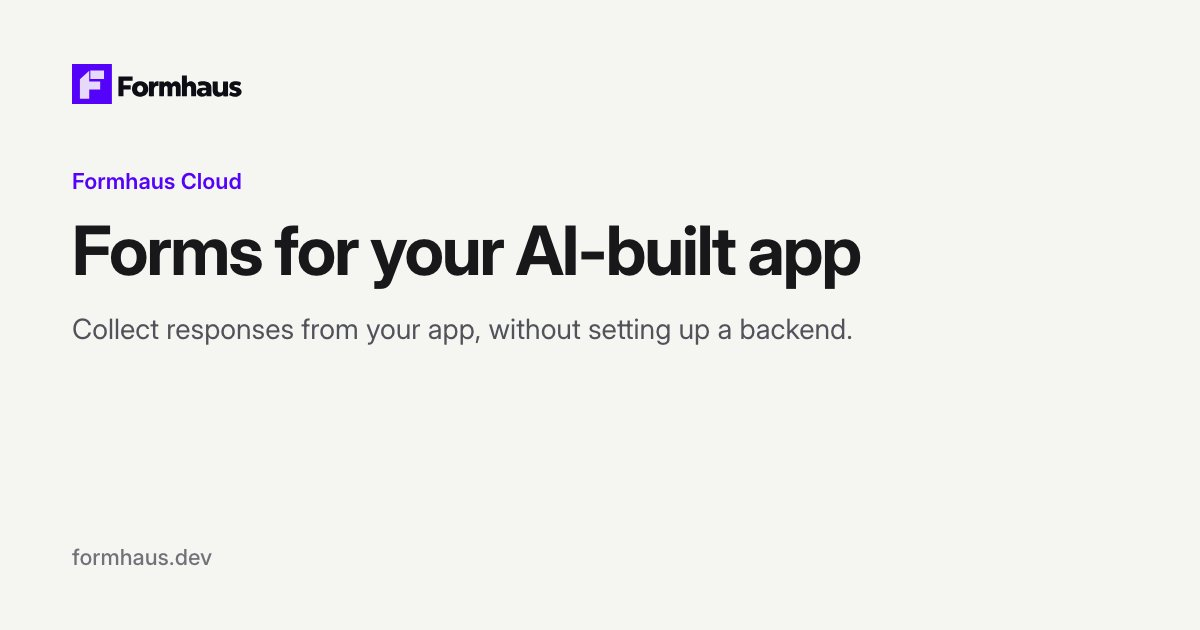
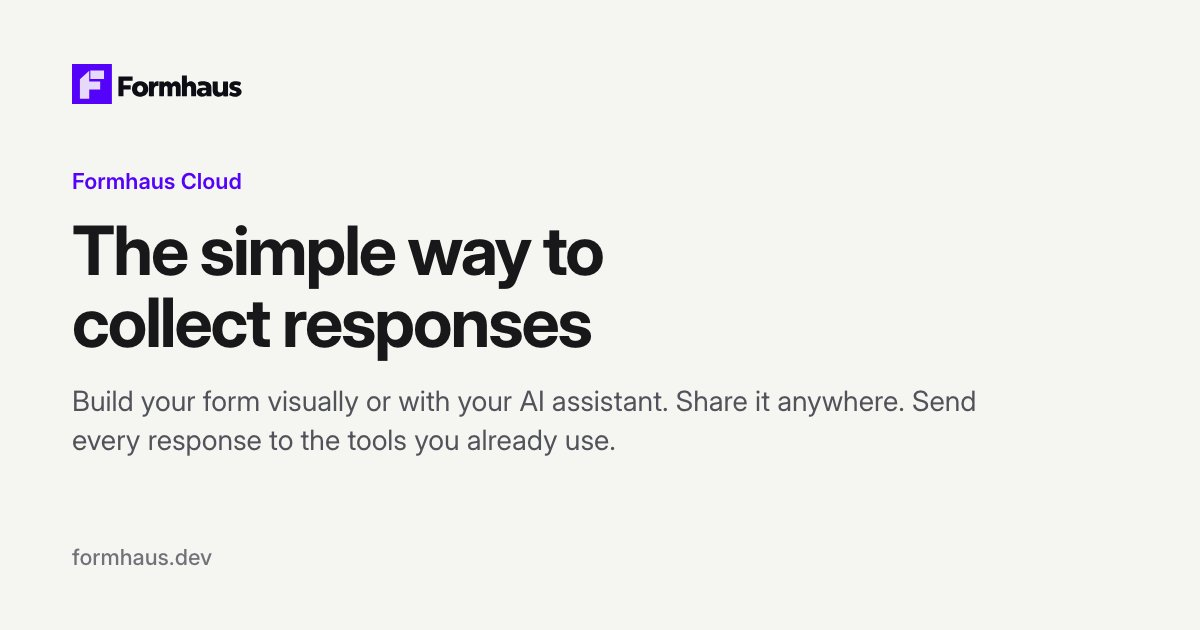
feat: forms-first /cloud landing with one CTA per section

Changed region(s): [[0.0617, 0.3619, 0.74, 0.573], [0.0617, 0.6032, 0.8325, 0.7238]]

diff --git a/docs/.vitepress/components/landing/LandingHeroVideo.vue b/docs/.vitepress/components/landing/LandingHeroVideo.vue
@@ -7,9 +7,16 @@ import './hero-video.css';
 const hiDpiWide = '(min-width: 960px) and (min-resolution: 1.5dppx)';
 const narrow = '(max-width: 639px)';
 const posterSizes = '(min-width: 1200px) 1152px, calc(100vw - 32px)';
+const props = withDefaults(defineProps<{ prefix?: string; start?: number; length?: number; mobileLength?: number; caption?: string }>(), {
+  prefix: 'formhaus-hero',
+  start: 5,
+  length: 33,
+  mobileLength: 22,
+  caption: 'An agent writes a waitlist form and publishes it. The same form runs in React, Vue, a hosted page and Figma. Someone fills it in, and the response lands in the dashboard, a webhook and a CSV file.',
+});
 const themes = [
-  { name: 'light', base: '/media/formhaus-hero', mobile: '/media/formhaus-hero-mobile' },
-  { name: 'dark', base: '/media/formhaus-hero-dark', mobile: '/media/formhaus-hero-mobile-dark' },
+  { name: 'light', base: `/media/${props.prefix}`, mobile: `/media/${props.prefix}-mobile` },
+  { name: 'dark', base: `/media/${props.prefix}-dark`, mobile: `/media/${props.prefix}-mobile-dark` },
 ].map((t) => ({
   ...t,
   srcset: [640, 1280, 1920, 2560].map((w) => `${t.base}-poster-${w}.jpg ${w}w`).join(', '),
@@ -30,8 +37,8 @@ let observer: IntersectionObserver | undefined;
 
 const theme = computed(() => themes[isDark.value ? 1 : 0]);
 const base = computed(() => (mobile.value ? theme.value.mobile : theme.value.base));
-const startAt = computed(() => (mobile.value ? 0 : 5));
-const duration = computed(() => (mobile.value ? 22 : 33));
+const startAt = computed(() => (mobile.value ? 0 : props.start));
+const duration = computed(() => (mobile.value ? props.mobileLength : props.length));
 const sources = computed(() => mobile.value ? [
   { src: `${base.value}-1080.mp4`, type: 'video/mp4', media: '(min-resolution: 2dppx)' },
   { src: `${base.value}-720.mp4`, type: 'video/mp4' },
@@ -129,11 +136,7 @@ onBeforeUnmount(() => observer?.disconnect());
         <source v-for="s in sources" :key="s.src" :src="s.src" :type="s.type" :media="s.media" />
       </template>
     </video>
-    <figcaption id="hero-video-caption" class="lp-sr-only">
-      An agent writes a waitlist form and publishes it.
-      The same form runs in React, Vue, a hosted page and Figma.
-      Someone fills it in, and the response lands in the dashboard, a webhook and a CSV file.
-    </figcaption>
+    <figcaption id="hero-video-caption" class="lp-sr-only">{{ props.caption }}</figcaption>
     <button v-if="ready && !started" type="button" class="hero-video__start" @click="toggle">
       <LucideIcon name="play" />
       <span>Play video</span>

diff --git a/docs/.vitepress/components/cloud/CloudTemplates.vue b/docs/.vitepress/components/cloud/CloudTemplates.vue
@@ -1,0 +1,40 @@
+<script setup lang="ts">
+import LandingSection from '../landing/LandingSection.vue';
+import SectionCta from '../landing/SectionCta.vue';
+const templates = [
+  { slug: 'nps-survey', name: 'NPS survey', category: 'Feedback' },
+  { slug: 'catering-inquiry', name: 'Catering inquiry', category: 'Lead generation' },
+  { slug: 'talk-proposal', name: 'Talk proposal (CFP)', category: 'Applications' },
+  { slug: 'testimonial-request', name: 'Testimonial request', category: 'Feedback' },
+];
+</script>
+
+<template>
+  <LandingSection id="templates" title="Start from a template" lead="Pick a form and change it to fit your plans.">
+    <div class="templates">
+      <a v-for="item in templates" :key="item.slug" class="cloud-frame template-tile" :href="`/templates/${item.slug}`">
+        <div class="template-preview">
+          <img class="cloud-light" :src="`/media/tpl-${item.slug}.png`" width="816" height="816" :alt="`${item.name} form preview`" loading="lazy" decoding="async" />
+          <img class="cloud-dark" :src="`/media/tpl-${item.slug}-dark.png`" width="816" height="816" :alt="`${item.name} form preview`" loading="lazy" decoding="async" />
+        </div>
+        <span class="template-name">{{ item.name }}<span class="template-category">{{ item.category }}</span></span>
+      </a>
+    </div>
+    <SectionCta href="/templates/" label="Browse all templates" />
+  </LandingSection>
+</template>
+
+<style scoped>
+.templates { display: grid; grid-template-columns: repeat(4, minmax(0, 1fr)); gap: 24px; }
+.template-tile { display: flex; flex-direction: column; min-width: 0; color: var(--vp-c-text-1); text-decoration: none; }
+.template-preview { aspect-ratio: 1 / 1; overflow: hidden; border-bottom: 1px solid var(--vp-c-divider); }
+img { display: block; width: 100%; height: 100%; object-fit: cover; object-position: top; }
+.template-name { display: flex; flex-direction: column; justify-content: center; min-height: 72px; padding: 12px 16px; font-weight: 600; line-height: 24px; }
+.template-category { font-size: 13px; line-height: 20px; font-weight: 400; color: var(--vp-c-text-2); }
+.template-tile:hover { border-color: var(--vp-c-text-3); }
+.template-tile:hover .template-name { color: var(--vp-c-brand-1); }
+@media (max-width: 767px) {
+  .templates { grid-template-columns: repeat(2, minmax(0, 1fr)); gap: 16px; }
+  .template-name { padding: 12px; }
+}
+</style>

diff --git a/docs/.vitepress/components/cloud/CloudHero.vue b/docs/.vitepress/components/cloud/CloudHero.vue
@@ -1,23 +1,39 @@
 <script setup lang="ts">
 import LandingHeroVideo from '../landing/LandingHeroVideo.vue';
+import LucideIcon from '../landing/LucideIcon.vue';
+
+const video = '';
+const alt = 'Form builder showing Save your seat: Spring launch webinar, with steps and fields';
 </script>
 
 <template>
   <section class="cloud-hero lp-container" aria-labelledby="cloud-title">
     <header class="lp-head">
-      <h1 id="cloud-title">Forms for your AI-built app</h1>
-      <p class="lp-lead">Collect responses from your app, without setting up a backend.</p>
+      <h1 id="cloud-title">The simple way to collect responses</h1>
+      <p class="lp-lead hero-lead">Build your form visually or with your AI assistant. Share it anywhere. Send every response to the tools you already use.</p>
       <div class="cloud-actions">
-        <a class="lp-button" href="https://app.formhaus.dev/login">Start free</a>
-        <a class="lp-link" href="#pricing">See pricing</a>
+        <a class="lp-button" href="https://app.formhaus.dev/login">Create a free form</a>
+        <a class="lp-link" href="/pricing">See pricing <LucideIcon name="arrow-right" /></a>
       </div>
+      <p class="hero-trust">Free for 3 forms · No credit card</p>
     </header>
-    <LandingHeroVideo />
+    <LandingHeroVideo v-if="video" :prefix="video" />
+    <figure v-else class="cloud-frame hero-preview">
+      <img class="cloud-light" src="/media/cloud-builder.png" width="2336" height="1232" :alt="alt" loading="eager" fetchpriority="high" />
+      <img class="cloud-dark" src="/media/cloud-builder-dark.png" width="2336" height="1232" :alt="alt" loading="eager" fetchpriority="high" />
+    </figure>
   </section>
 </template>
 
 <style scoped>
 .cloud-hero { padding-top: 48px; }
+.hero-preview { margin: 0; }
+.hero-lead { max-width: 60ch; margin-inline: auto; }
+.hero-trust { margin: 16px 0 0; font-size: 14px; line-height: 20px; color: var(--vp-c-text-2); }
+img { display: block; width: 100%; height: auto; }
+@media (max-width: 767px) {
+  img { width: 720px; max-width: none; }
+}
 h1 { margin: 0; font-size: 36px; line-height: 1.1; letter-spacing: -0.03em; font-weight: 700; text-wrap: balance; }
 @media (min-width: 960px) {
   .cloud-hero { padding-top: 80px; }

diff --git a/docs/.vitepress/components/cloud/CloudFaq.vue b/docs/.vitepress/components/cloud/CloudFaq.vue
@@ -1,32 +1,34 @@
 <script setup lang="ts">
 import LandingSection from '../landing/LandingSection.vue';
+import SectionCta from '../landing/SectionCta.vue';
 </script>
 
 <template>
   <div id="faq">
-    <LandingSection id="faq" title="A few common questions">
+    <LandingSection id="faq" title="A few common questions" lead="What to know before you make your first form.">
       <div class="faq-list">
         <article>
           <h3>Where is my data stored?</h3>
-          <p>Your forms and responses are stored in Frankfurt, in the EU.</p>
+          <p>Forms and responses are stored in Frankfurt, EU, with encrypted backups. IP addresses are not stored with responses.</p>
         </article>
         <article>
-          <h3>Is it free to start?</h3>
-          <p>Yes. Free includes 3 forms and 100 submissions a month.</p>
+          <h3>Can I put my own branding on the form?</h3>
+          <p>Hosted pages can show your company name and a link to your privacy policy, and on paid plans your logo. There is a small “Made with Formhaus” mark.</p>
         </article>
         <article>
-          <h3>Can I take my form elsewhere?</h3>
-          <p>Yes. Your form uses an open format, and the packages are MIT-licensed.</p>
+          <h3>Do I need a developer?</h3>
+          <p>No. Build in the browser or ask Claude, then share the link.</p>
         </article>
         <article>
-          <h3>Do I need to code?</h3>
-          <p>No. Ask your AI agent or use the browser builder, then share your form’s link.</p>
+          <h3>How do I connect Claude?</h3>
+          <p>Add the Formhaus connector in Claude, then ask for a form. The <a class="lp-link" href="/cloud/quickstart">setup guide</a> has the steps.</p>
         </article>
         <article>
           <h3>How do I cancel?</h3>
           <p>Cancel any time from your account. Paid features stay on until the end of the billing period.</p>
         </article>
       </div>
+      <SectionCta href="mailto:hello@formhaus.dev" label="Ask us a question" />
     </LandingSection>
   </div>
 </template>

diff --git a/docs/.vitepress/components/cloud/CloudAssistant.vue b/docs/.vitepress/components/cloud/CloudAssistant.vue
@@ -1,0 +1,37 @@
+<script setup lang="ts">
+import LandingSection from '../landing/LandingSection.vue';
+import LandingFrame from '../landing/LandingFrame.vue';
+import SectionCta from '../landing/SectionCta.vue';
+</script>
+
+<template>
+  <LandingSection id="assistant" title="Ask Claude about your responses" lead="Find common themes and hear what people need.">
+    <LandingFrame class="conversation" label="Claude">
+      <div class="chat">
+        <p class="chat-user">Make a webinar signup form and send me today's responses</p>
+        <div class="chat-reply">
+          <p>Your webinar signup form is ready.<br /><span class="form-link">https://f.formhaus.dev/spring-webinar</span></p>
+          <p>38 people signed up today. Most are in marketing (21) and sales (9). 27 will join live, 11 want the replay. Top question: pricing for small teams.</p>
+        </div>
+        <div class="chat-input" aria-hidden="true">Reply to Claude</div>
+      </div>
+    </LandingFrame>
+    <p class="connector-note">Works through the Formhaus connector (MCP) in Claude and other assistants.</p>
+    <SectionCta href="/cloud/quickstart" label="Connect Claude" />
+  </LandingSection>
+</template>
+
+<style scoped>
+.conversation { max-width: 760px; margin: 0 auto; }
+.chat { display: flex; flex-direction: column; gap: 28px; padding: 32px; font-size: 16px; line-height: 26px; }
+.chat p { margin: 0; }
+.chat-user { align-self: flex-end; max-width: 440px; padding: 16px 20px; border-radius: 16px 16px 4px 16px; background: var(--vp-c-bg-soft); }
+.chat-reply { max-width: 580px; }
+.chat-reply p + p { margin-top: 20px; }
+.form-link { color: var(--vp-c-brand-1); overflow-wrap: anywhere; }
+.chat-input { min-height: 48px; display: flex; align-items: center; padding: 0 16px; border: 1px solid var(--vp-c-divider); border-radius: 12px; color: var(--vp-c-text-3); background: var(--vp-c-bg-soft); }
+.connector-note { max-width: 680px; margin: 24px auto 0; text-align: center; color: var(--vp-c-text-2); }
+@media (max-width: 767px) {
+  .chat { padding: 20px; gap: 24px; }
+}
+</style>

diff --git a/docs/.vitepress/components/landing/LandingResponses.vue b/docs/.vitepress/components/landing/LandingResponses.vue
@@ -1,6 +1,7 @@
 <script setup lang="ts">
 import CopyLine from './CopyLine.vue';
 import LandingSection from './LandingSection.vue';
+import SectionCta from './SectionCta.vue';
 
 const embed = '<script src="https://f.formhaus.dev/embed.js" data-form="contact-us" async><' + '/script>';
 const alt = 'Formhaus Cloud dashboard showing the Responses tab of a Contact us form, with seven submissions listing name, email, message, form version and when each was sent.';
@@ -16,14 +17,7 @@ const alt = 'Formhaus Cloud dashboard showing the Responses tab of a Contact us 
       <img class="responses__shot responses__shot--light" src="/media/landing-responses.png" width="2304" height="1250" :alt="alt" loading="lazy" decoding="async" />
       <img class="responses__shot responses__shot--dark" src="/media/landing-responses-dark.png" width="2304" height="1250" :alt="alt" loading="lazy" decoding="async" />
     </figure>
-    <div class="responses__actions">
-      <a class="lp-button" href="/cloud">Start free</a>
-      <div class="responses__links">
-        <a href="/cloud/webhooks">Webhooks</a>
-        <span aria-hidden="true">·</span>
-        <a href="/cloud/submissions">CSV export</a>
-      </div>
-    </div>
+    <SectionCta href="/cloud" label="Learn about Cloud" />
   </LandingSection>
 </template>
 
@@ -44,21 +38,6 @@ const alt = 'Formhaus Cloud dashboard showing the Responses tab of a Contact us 
   height: 44px;
   cursor: pointer;
 }
-
-.responses__actions,
-.responses__links {
-  display: flex;
-  align-items: center;
-  justify-content: center;
-  flex-wrap: wrap;
-  gap: 16px;
-}
-
-.responses__actions { margin-top: 24px; }
-.responses__actions a { cursor: pointer; }
-.responses__links { gap: 8px; color: var(--vp-c-text-2); font-size: 14px; }
-.responses__links a { display: inline-flex; align-items: center; min-height: 44px; }
-.responses__links a:hover { color: var(--vp-c-brand-1); }
 
 .responses {
   --shot-bg: #fafaf9;

diff --git a/docs/.vitepress/components/cloud/CloudClosing.vue b/docs/.vitepress/components/cloud/CloudClosing.vue
@@ -1,10 +1,12 @@
 <script setup lang="ts">
 import LandingSection from '../landing/LandingSection.vue';
+defineProps<{ showPricing?: boolean }>();
 </script>
 
 <template>
-  <LandingSection id="start" title="Make your first form">
-    <div class="cloud-actions"><a class="lp-button" href="https://app.formhaus.dev/login">Start free</a></div>
+  <LandingSection id="start" title="Make your first form" lead="Share a link and start collecting responses.">
+    <div class="cloud-actions"><a class="lp-button" href="https://app.formhaus.dev/login">Create a free form</a></div>
+    <p v-if="showPricing" class="pricing-note"><a href="/pricing">Free for 3 forms. Pro is $19 a month.</a></p>
     <nav class="developer-links" aria-label="Developer resources">
       <a href="/cloud/overview">Docs</a><span aria-hidden="true">·</span>
       <a href="/cloud/rest-api">API</a><span aria-hidden="true">·</span>
@@ -15,6 +17,8 @@ import LandingSection from '../landing/LandingSection.vue';
 
 <style scoped>
 .cloud-actions { margin-top: 0; }
+.pricing-note { margin: 12px 0 0; text-align: center; font-size: 14px; color: var(--vp-c-text-2); }
+.pricing-note a:hover { color: var(--vp-c-brand-1); }
 .developer-links { display: flex; justify-content: center; align-items: center; gap: 16px; margin-top: 64px; color: var(--vp-c-text-2); font-size: 13px; }
 a { display: inline-flex; align-items: center; min-height: 44px; }
 </style>

diff --git a/docs/.vitepress/components/cloud/CloudBuilder.vue b/docs/.vitepress/components/cloud/CloudBuilder.vue
@@ -1,0 +1,22 @@
+<script setup lang="ts">
+import LandingSection from '../landing/LandingSection.vue';
+import SectionCta from '../landing/SectionCta.vue';
+</script>
+
+<template>
+  <LandingSection id="builder" title="Build it like a doc" lead="Add fields, group steps, and show questions only when they matter.">
+    <figure class="cloud-frame builder-preview">
+      <img class="cloud-light" src="/media/cloud-builder-steps.png" width="1772" height="1080" alt="Your session step, with a question shown only for live attendees" loading="lazy" decoding="async" />
+      <img class="cloud-dark" src="/media/cloud-builder-steps-dark.png" width="1772" height="1080" alt="Your session step, with a question shown only for live attendees" loading="lazy" decoding="async" />
+    </figure>
+    <SectionCta href="/build" label="Open the builder" />
+  </LandingSection>
+</template>
+
+<style scoped>
+.builder-preview { max-width: 880px; margin: 0 auto; }
+img { display: block; width: 100%; height: auto; }
+@media (max-width: 767px) {
+  img { width: 560px; max-width: none; }
+}
+</style>

diff --git a/docs/.vitepress/components/cloud/CloudResponses.vue b/docs/.vitepress/components/cloud/CloudResponses.vue
@@ -1,14 +1,16 @@
 <script setup lang="ts">
 import LandingSection from '../landing/LandingSection.vue';
+import SectionCta from '../landing/SectionCta.vue';
 const alt = 'Responses dashboard showing names, emails and messages from a contact form';
 </script>
 
 <template>
-  <LandingSection id="responses" title="Responses in one place" lead="Get email notifications, export a CSV, or send responses through webhooks.">
+  <LandingSection id="responses" title="Responses in one place" lead="Get email alerts, export a CSV, or send webhooks to Zapier and Make.">
     <figure class="cloud-frame responses">
       <img class="cloud-light" src="/media/landing-responses.png" width="2304" height="1250" :alt="alt" loading="lazy" decoding="async" />
       <img class="cloud-dark" src="/media/landing-responses-dark.png" width="2304" height="1250" :alt="alt" loading="lazy" decoding="async" />
     </figure>
+    <SectionCta href="/cloud/submissions" label="See how responses work" />
   </LandingSection>
 </template>
 

diff --git a/docs/.vitepress/components/landing/SectionCta.vue b/docs/.vitepress/components/landing/SectionCta.vue
@@ -1,0 +1,24 @@
+<script setup lang="ts">
+import LucideIcon from './LucideIcon.vue';
+
+defineProps<{ href: string; label: string }>();
+</script>
+
+<template>
+  <div class="section-cta">
+    <a class="lp-link section-cta__link" :href="href">{{ label }} <LucideIcon name="arrow-right" /></a>
+  </div>
+</template>
+
+<style scoped>
+.section-cta {
+  display: flex;
+  justify-content: center;
+  margin-top: 32px;
+}
+
+.section-cta__link {
+  min-height: 44px;
+  cursor: pointer;
+}
+</style>

diff --git a/docs/.vitepress/components/cloud/cloud.css b/docs/.vitepress/components/cloud/cloud.css
@@ -6,7 +6,6 @@
 .cloud-dark, html.dark .cloud-light { display: none !important; }
 html.dark .cloud-dark { display: block !important; }
 .cloud :is(#pricing, #faq) { scroll-margin-top: var(--vp-nav-height); }
-.cloud .copy-line__button { width: 44px; height: 44px; }
 @media (max-width: 767px) {
   .cloud-columns { grid-template-columns: 1fr; gap: 32px; }
 }

diff --git a/docs/cloud.md b/docs/cloud.md
@@ -1,20 +1,20 @@
 ---
 layout: home
-title: "Forms for your AI-built app · Formhaus Cloud"
+title: "The simple way to collect responses · Formhaus Cloud"
 titleTemplate: false
-description: "Create a form for your AI-built app and collect responses without a backend. Start free, share a link, and manage every response in one place."
+description: "Build a form visually or with your AI assistant, share it anywhere, and send every response to the tools you already use. Free for 3 forms."
 markdownStyles: false
 footer: false
-pageClass: lp-page lp-cloud
+pageClass: lp-page
 sidebar: false
 ---
 
 <script setup>
 import CloudHero from './.vitepress/components/cloud/CloudHero.vue';
-import CloudWays from './.vitepress/components/cloud/CloudWays.vue';
+import CloudBuilder from './.vitepress/components/cloud/CloudBuilder.vue';
+import CloudAssistant from './.vitepress/components/cloud/CloudAssistant.vue';
 import CloudResponses from './.vitepress/components/cloud/CloudResponses.vue';
-import CloudEmbed from './.vitepress/components/cloud/CloudEmbed.vue';
-import CloudPricing from './.vitepress/components/cloud/CloudPricing.vue';
+import CloudTemplates from './.vitepress/components/cloud/CloudTemplates.vue';
 import CloudFaq from './.vitepress/components/cloud/CloudFaq.vue';
 import CloudClosing from './.vitepress/components/cloud/CloudClosing.vue';
 import './.vitepress/components/landing/landing.css';
@@ -23,10 +23,10 @@ import './.vitepress/components/cloud/cloud.css';
 
 <div class="lp cloud">
   <CloudHero />
-  <CloudWays />
+  <CloudBuilder />
+  <CloudAssistant />
   <CloudResponses />
-  <CloudEmbed />
-  <CloudPricing />
+  <CloudTemplates />
   <CloudFaq />
-  <CloudClosing />
+  <CloudClosing show-pricing />
 </div>
